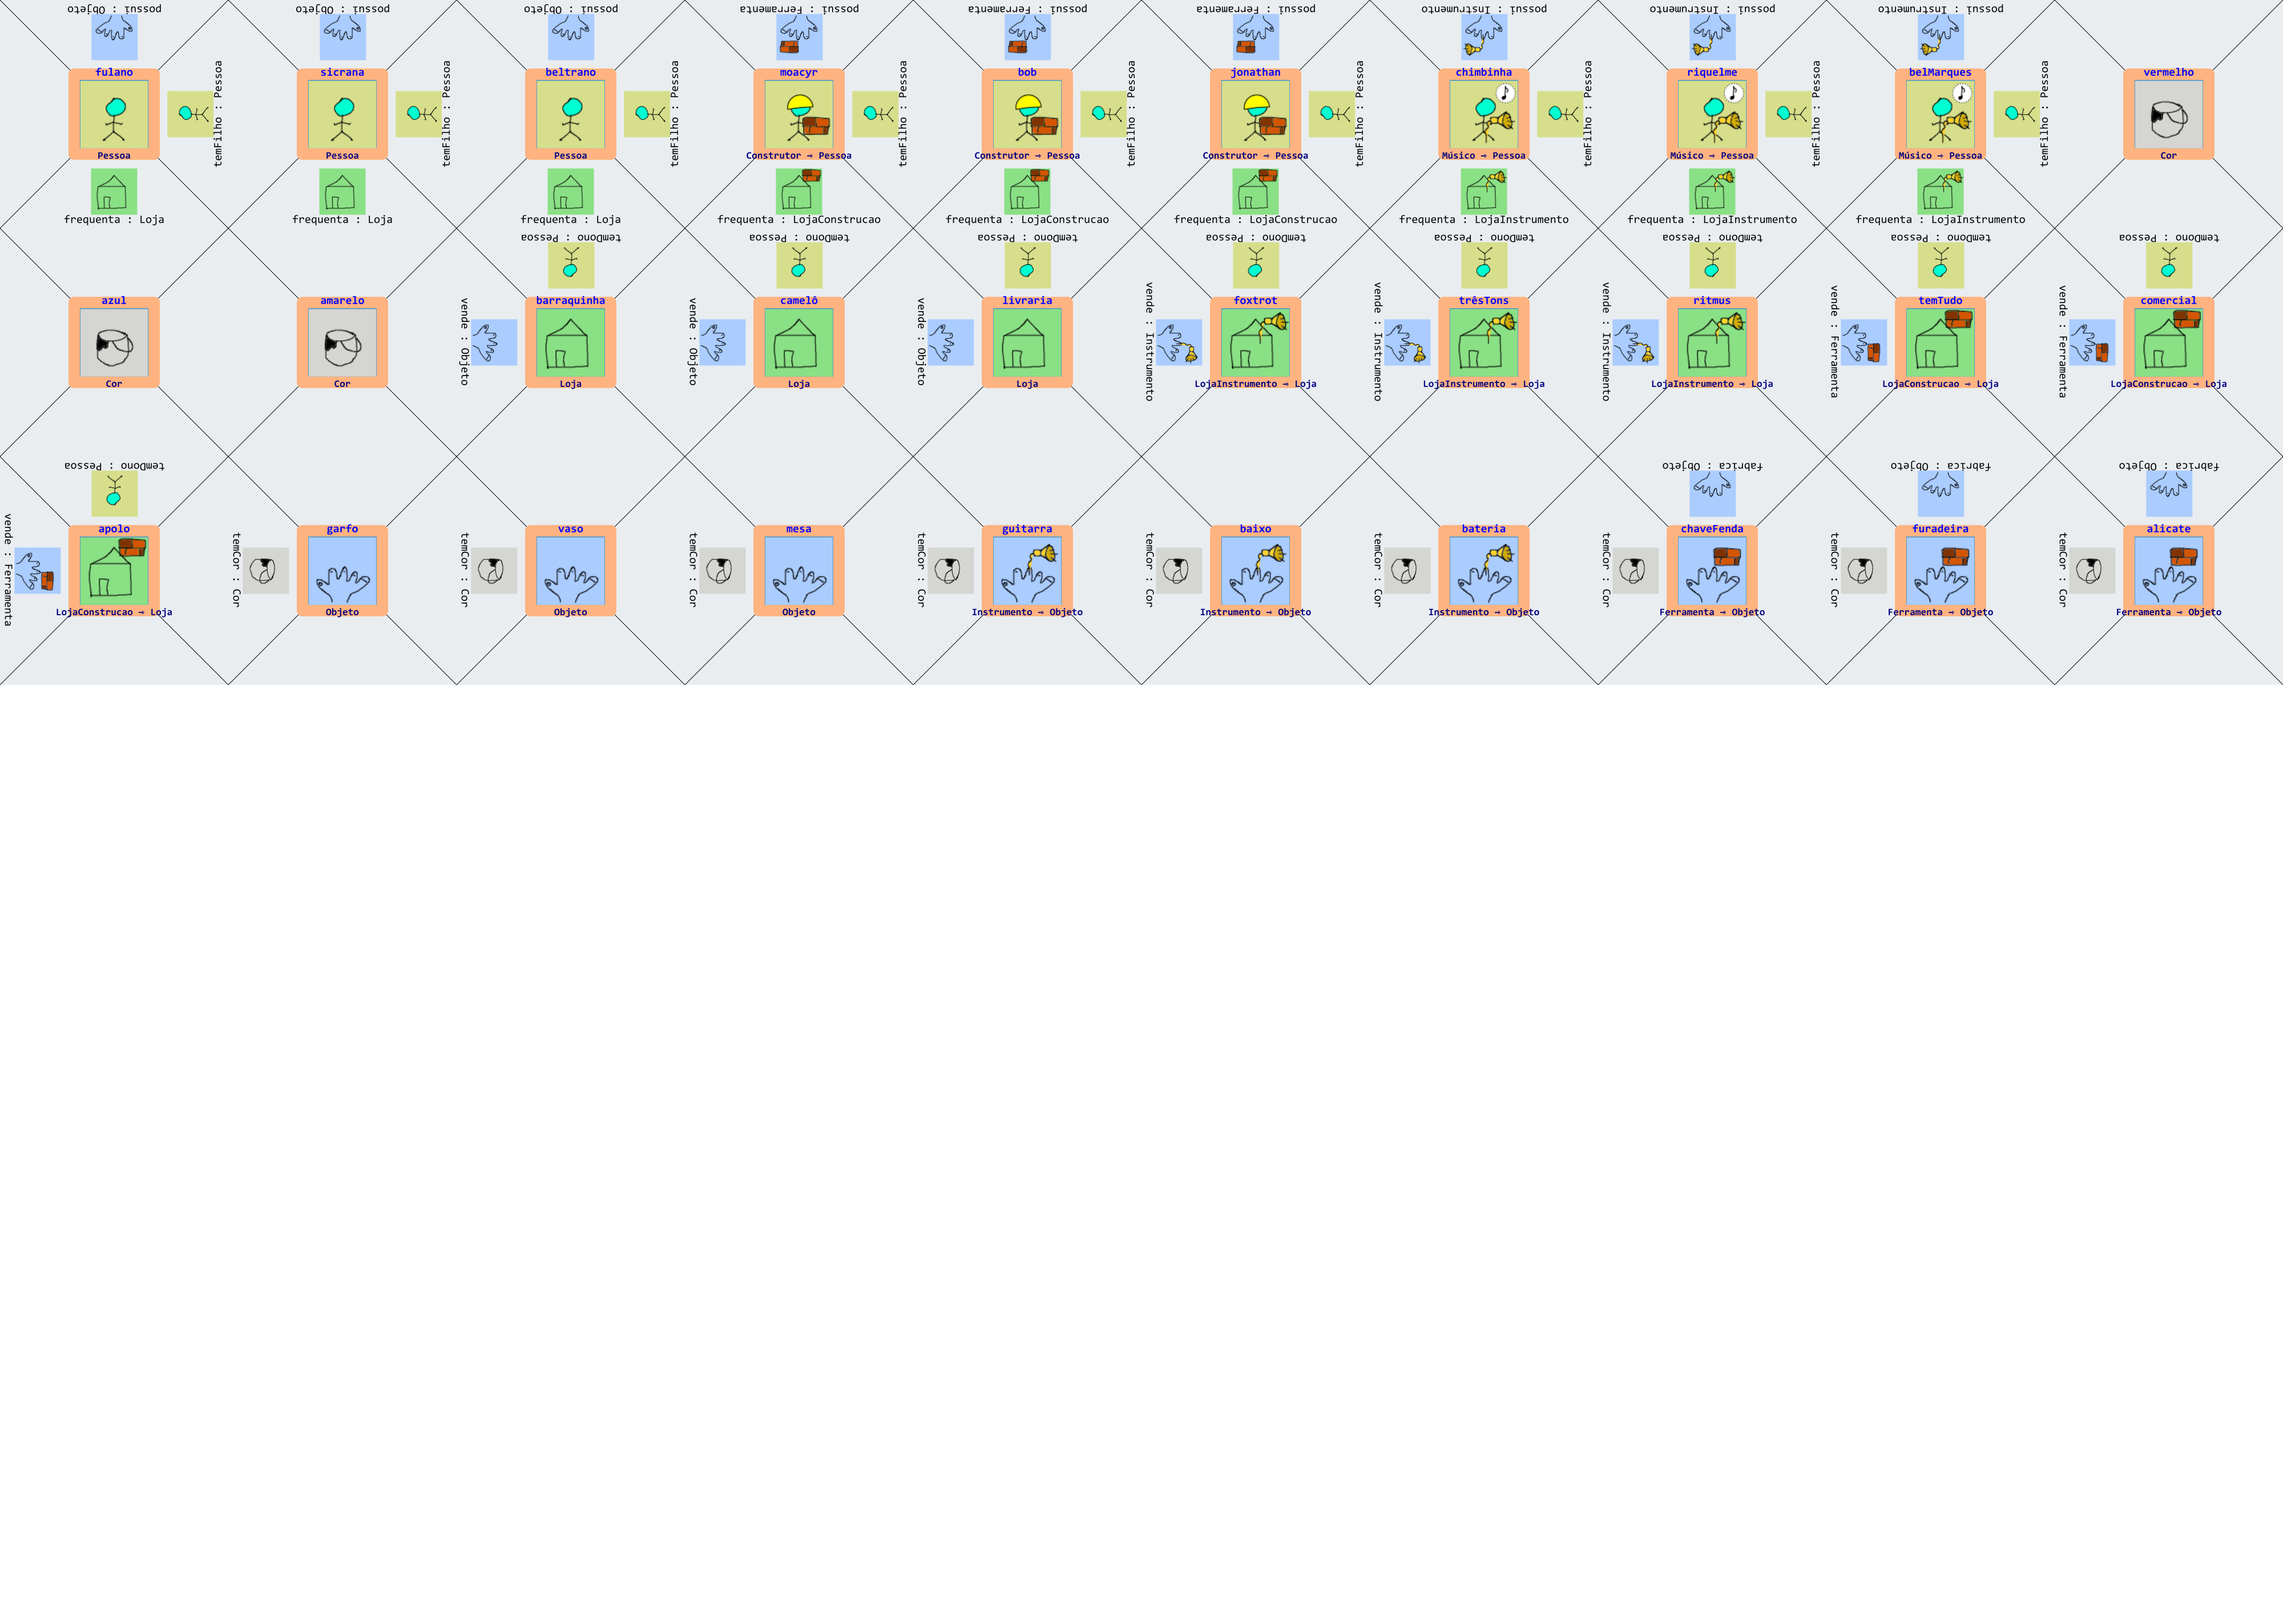
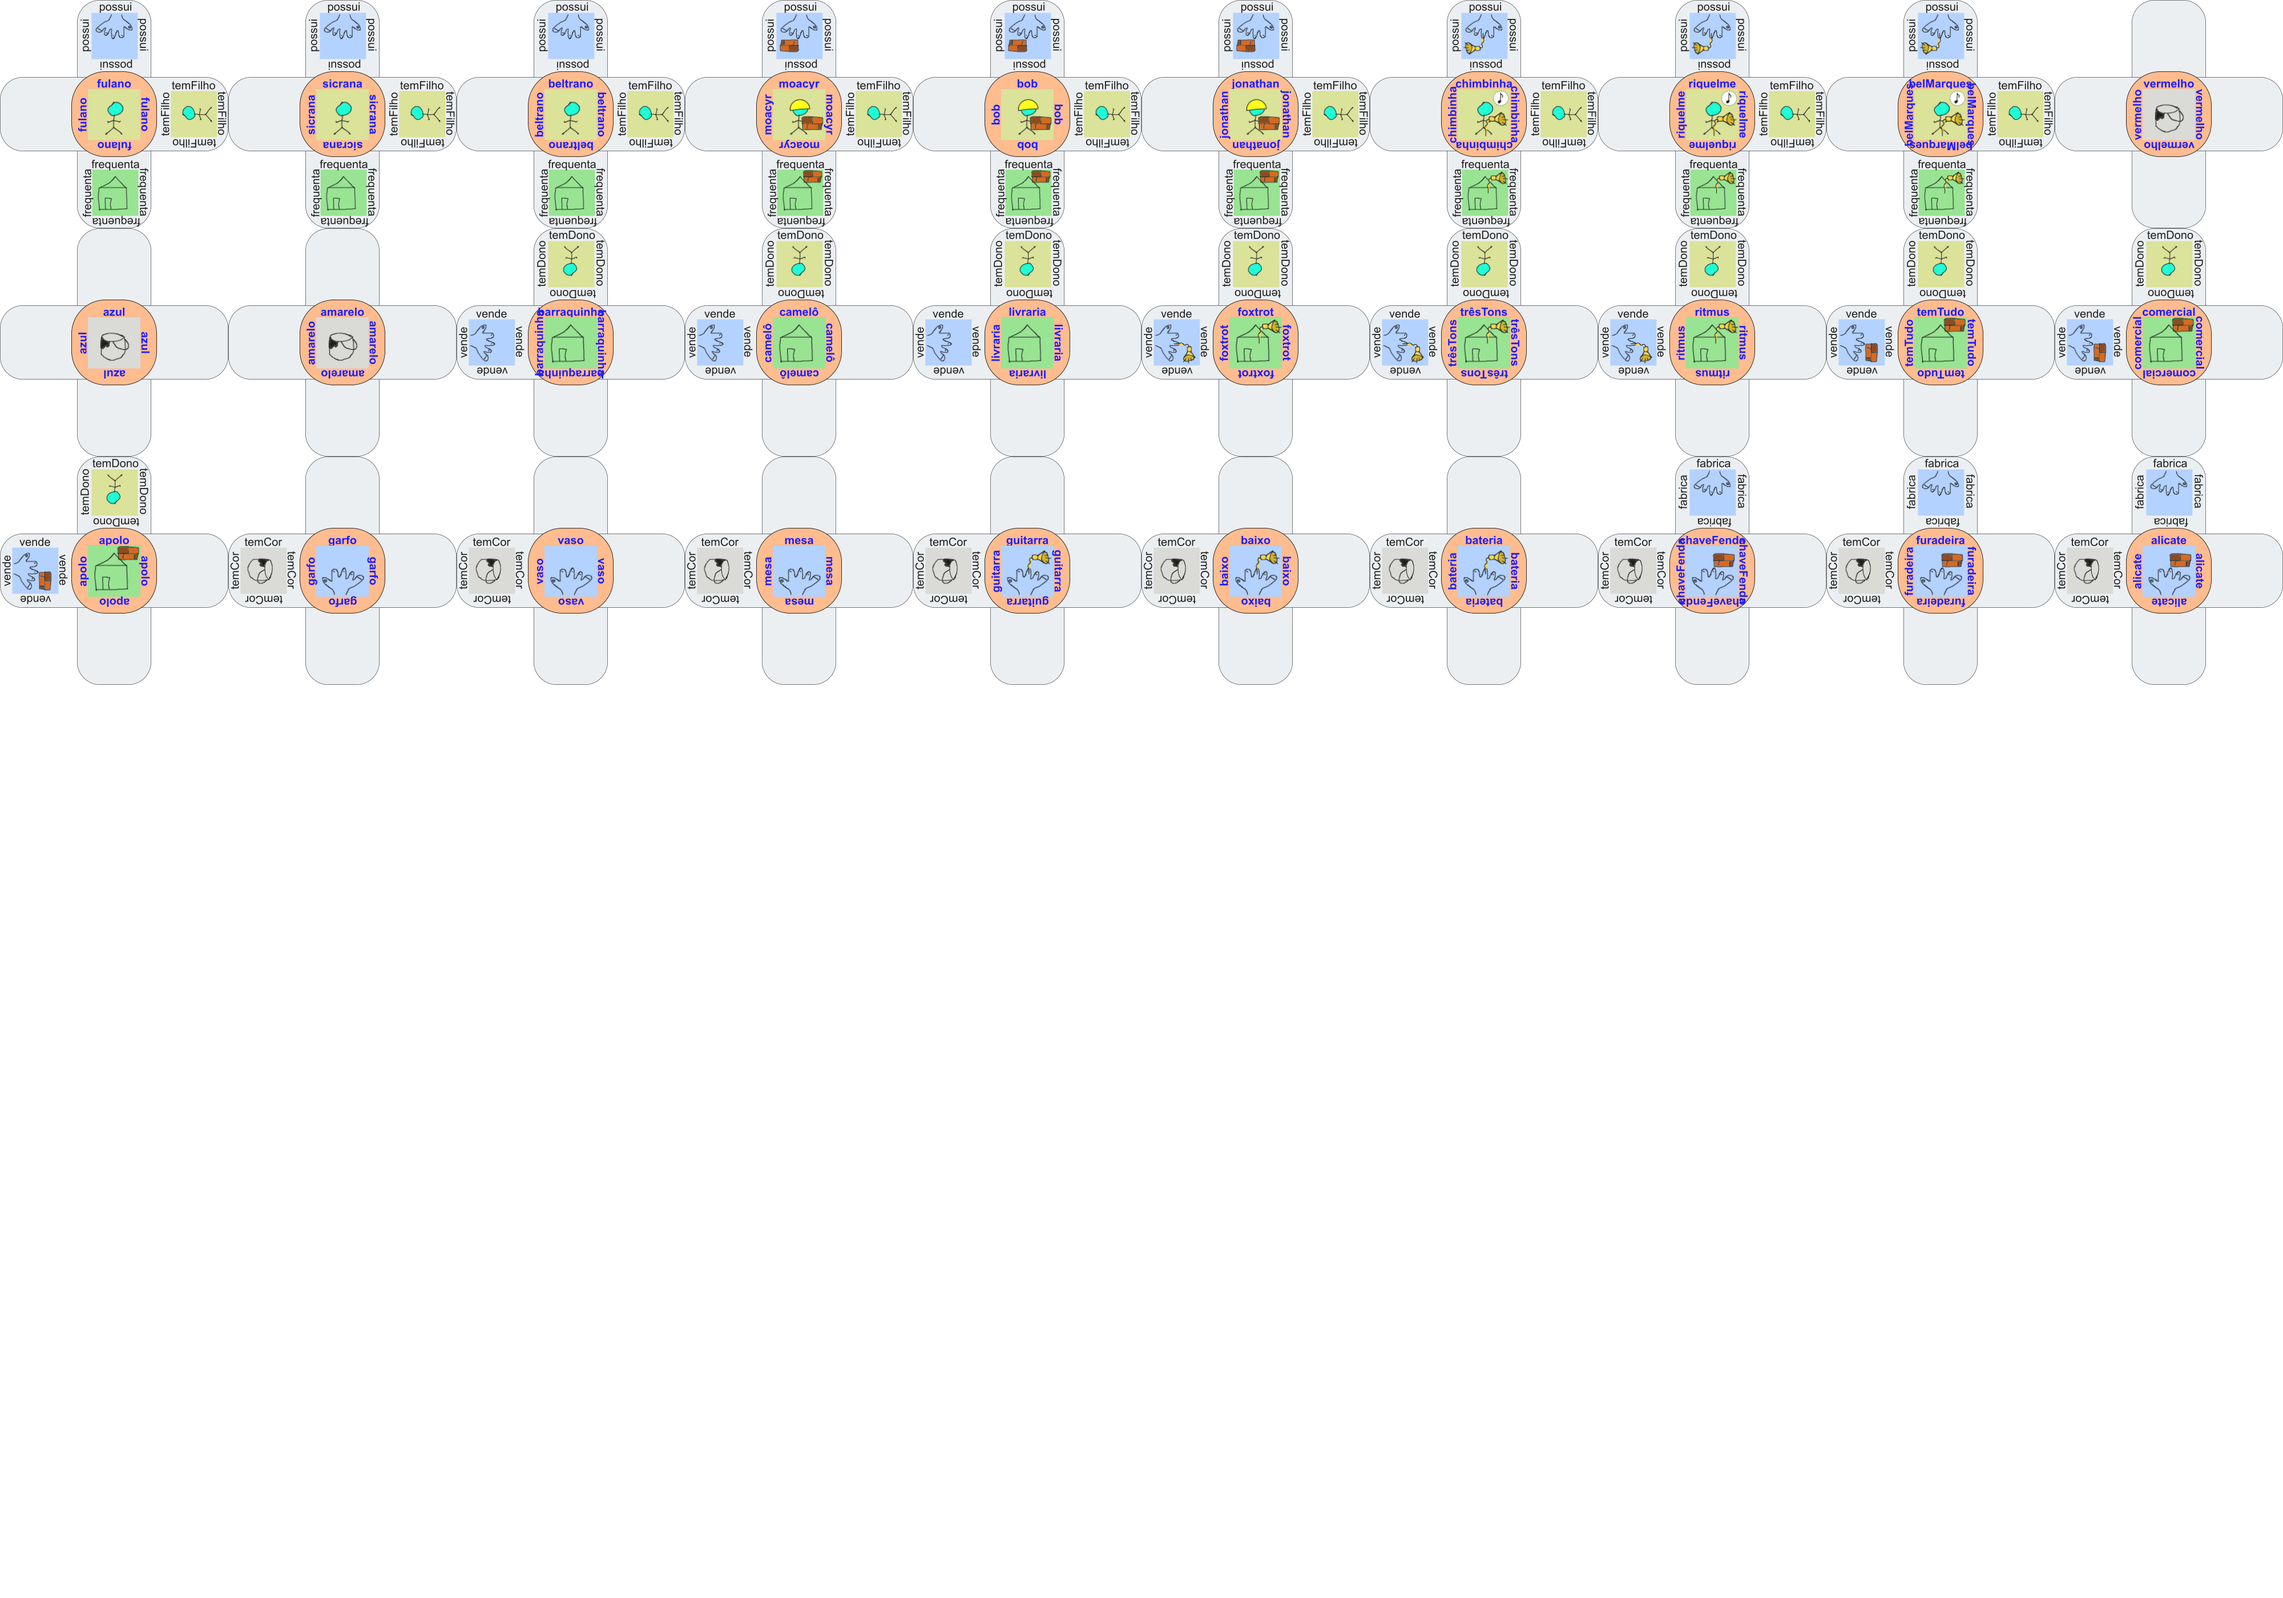
Uses new card layout (cross)
It is implement using CSS Grid Layout

diff --git a/src/BoardView.js b/src/BoardView.js
@@ -6,25 +6,24 @@ export class BoardView {
     this.rootElement = rootElement;
     this.client = client;
     this.deck = deck;
+    this.zindex = 0;
 
     this.createBoard();
     this.attachListeners();    
   }
 
   createBoard() {
-    const rows = [];
+    let id = 0;
+    let cells = [];
     for (let i = 0; i < BOARD_HEIGHT; i++) {
-      const cells = [];
       for (let j = 0; j < BOARD_WIDTH; j++) {
-        const id = BOARD_WIDTH * i + j;
-        cells.push(`<td class="cell" data-id="${id}"></td>`);
+        cells.push(`<div class="cell" data-id="${id}"></div>`);
+        id++;
       }
-      rows.push(`<tr>${cells.join('')}</tr>`);
     }
 
     this.rootElement.innerHTML = `
-      <table>${rows.join('')}</table>
-      <p class="winner"></p>
+      <div class="board">\n${cells.join('\n')}\n</div>
     `;
   }
 
@@ -48,10 +47,11 @@ export class BoardView {
       const card = getCardAtBoardIndex(this.client, index);
       cell.innerHTML = '';
       if (card !== null) {
-        const elem = this.deck.getCardImageElem(card.id);
-        elem.style.transform = `rotate(${card.rotation * 90}deg)`;
-        elem.style.border = ``;
-        cell.appendChild(elem);
+        cell.style.zIndex = card.zIndex;
+        const img = this.deck.getCardImageElem(card.id);
+        img.style.transform = `rotate(${card.rotation * 90}deg)`;
+        img.style.border = ``;
+        cell.appendChild(img);
       }
     });
   }

diff --git a/src/Game.js b/src/Game.js
@@ -11,7 +11,8 @@ export const Game = {
       cells: Array(BOARD_HEIGHT * BOARD_WIDTH).fill(null),
       players: {},
       deck: [...Array(NUM_CARDS).keys()],
-      started: false
+      started: false,
+      zIndex: 0
     }
 
     // shuffle deck
@@ -53,9 +54,12 @@ export const Game = {
       if (G.cells[cellIndex] !== null) {
         return INVALID_MOVE;
       }
+
       const hand = getCurrentPlayerCards(G, ctx);
       const cardIndex = getCurrentPlayerSelectedCardIndex(G, ctx);
-      G.cells[cellIndex] = hand.splice(cardIndex, 1)[0];
+      const card = hand.splice(cardIndex, 1)[0]
+      card.zIndex = G.zIndex++;
+      G.cells[cellIndex] = card;
 
       if (cardIndex > hand.length - 1) {
         setCurrentPlayerSelectedCardIndex(G, ctx, hand.length - 1);

diff --git a/index.html b/index.html
@@ -5,21 +5,22 @@
   <meta charset="utf-8" />
 
   <style>
-    .cell {
-      border: 1px solid #555;
-      width: 100px;
-      height: 100px;
-      padding: 0;
-      line-height: 0;
-      text-align: center;
+    .board {
+      display: grid;
+      grid-template-rows: repeat(4, 140px);
+      grid-template-columns: repeat(8, 140px);
+      justify-items: center;
+      align-items: center;
+      background-color: antiquewhite;
     }
-    .cell img {
-      width: 100px;
-      height: 100px;
+    .board .cell, .board .cell img {
+      width: 200px;
+      height: 200px;
     }
+
     #hand img {
-      width: 100px;
-      height: 100px;
+      width: 150px;
+      height: 150px;
     }
   </style>
 </head>

diff --git a/src/SplashScreen.js b/src/SplashScreen.js
@@ -15,7 +15,7 @@ export function SplashScreen(rootElement) {
   
       const numPlayers = document.createElement('input');
       numPlayers.type = 'text';
-      numPlayers.value = '2';
+      numPlayers.value = '1';
       numPlayers.style = 'width: 2em;'
       rootElement.appendChild(numPlayers);
   

diff --git a/src/config.js b/src/config.js
@@ -2,7 +2,7 @@ export const GAME_NAME = "default";
 
 export const BOARD_WIDTH = 6;
 export const BOARD_HEIGHT = 4;
-export const CARDS_PER_HAND = 4;
+export const CARDS_PER_HAND = 10; //4;
 
 export const NUM_CARDS = 30;
 export const CARD_WIDTH = 400;

diff --git a/src/Card.js b/src/Card.js
@@ -1,6 +1,7 @@
 export class Card {
-  constructor(id, rotation) {
+  constructor(id, rotation, zindex = 0) {
     this.id = id;
     this.rotation = rotation;
+    this.zindex = zindex;
   }
 }
